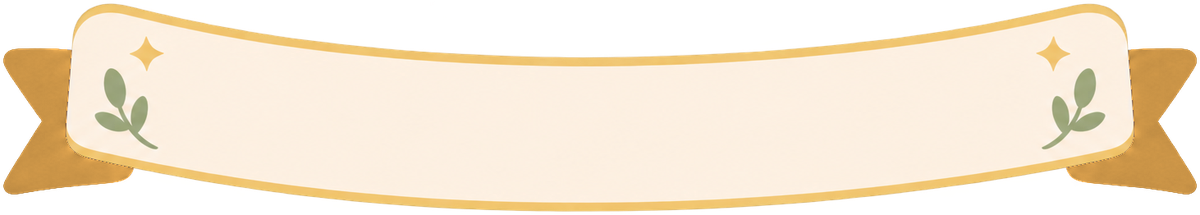
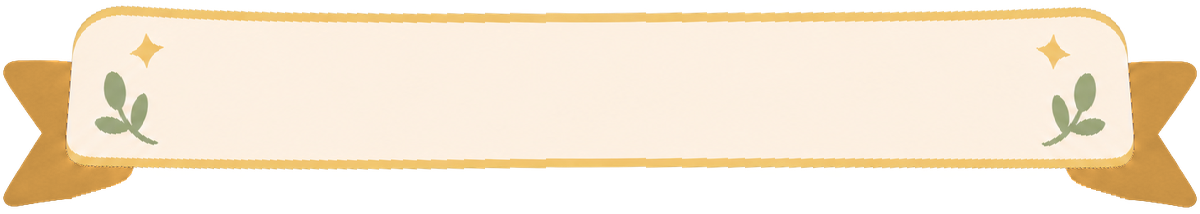
연출 리본 직선형으로 펴고, 리본 글자를 띠 세로 중앙에 맞춤
- ST_Ribbon: 기존 리본의 아치를 세로줄 이동으로 평평하게(꼬리는 띠 끝과 함께)
- StageTransition·SceneWipe: 글자를 띠 중앙(그림 중앙보다 위)에 Midline 정렬

diff --git a/ai-use/ParkYeongseo.md b/ai-use/ParkYeongseo.md
@@ -2627,3 +2627,22 @@
 
 #### 증거
 - Tools/_out/stageselect/skill_tip.jpg (git 제외)
+
+### [20261119-ribbon-straight] 연출 리본 직선형으로, 리본 글자 세로 중앙 맞춤
+- 시각: 2026-11-19 09:50:22 +09:00
+- 작업자: ParkYeongseo
+- 사용 도구: Claude Code (Opus 5.5) / Python(numpy, Pillow) / Unity CLI (Unity 6000.3.28f1)
+- 목적 및 적용 위치: 스테이지 입장 연출·씬 와이프의 아치형 리본을 직선형으로, 리본 안 글자가 띠 중앙에서 어긋나던 문제 수정. ST_Ribbon.png, StageTransition.prefab, SceneWipe.prefab
+- 사용 방식: 기존 GPT 리본을 새로 그리지 않고, 크림 띠의 중심선을 2차식으로 맞춘 뒤 세로줄마다 반대로 밀어 평평하게 폄(양 끝 꼬리는 띠 끝과 같이 이동). 띠 중앙이 그림 중앙보다 17/214 위에 있음을 측정해 글자 위치를 그만큼 올리고 정렬을 Midline 으로
+- 결과 및 확인 방법: 성공 / Play Mode 캡처(Tools/_out/stageselect/ribbon_check_transition.jpg, Tools/_out/title/ribbon_check_wipe.jpg), 콘솔 오류 0
+- 사람의 개입: 직선형 제안, 글자 위치 문제 지적
+
+#### 생성·수정 결과물
+| 파일 또는 위치 | 생성 도구 | 생성·수정 구분 | 수정 내용 및 최종 사용 여부 |
+| --- | --- | --- | --- |
+| ProjectBeViolenceDefense/Assets/07_UI/03_StageSelect/ST_Ribbon.png | Python(기존 GPT 리본 변형) | 수정 | 직선형 1200x214. 사용 |
+| ProjectBeViolenceDefense/Assets/03_Prefabs/05_UI/StageTransition.prefab, SceneWipe.prefab | Unity CLI | 수정 | 리본 비율, 글자 위치·정렬. 사용 |
+| ProjectBeViolenceDefense/Assets/01_Scenes/02_Gameplay/GameScene.unity | Unity CLI | 수정 | 트랜지션 인스턴스 재배치. 사용 |
+
+#### 증거
+- Tools/_out/stageselect/ribbon_check_transition.jpg, Tools/_out/title/ribbon_check_wipe.jpg (git 제외)
